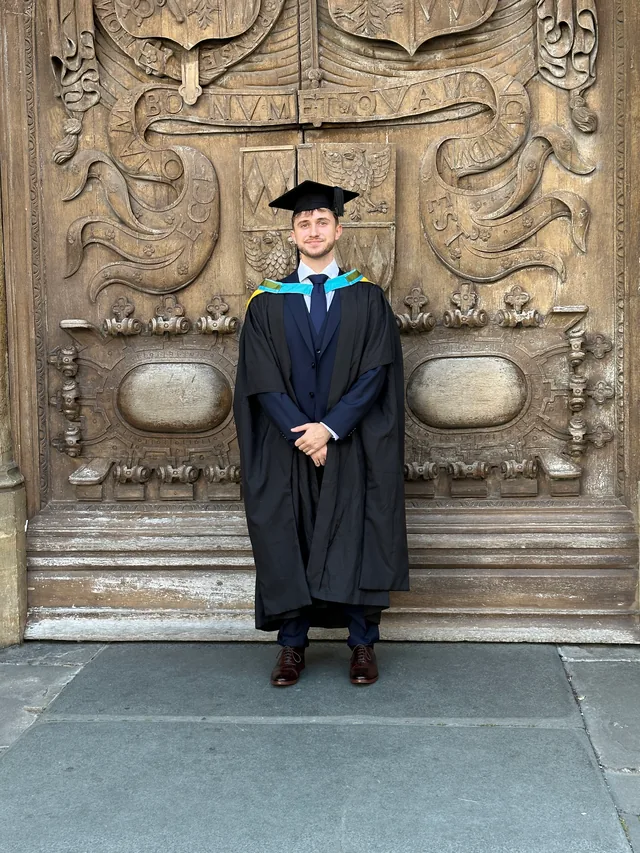
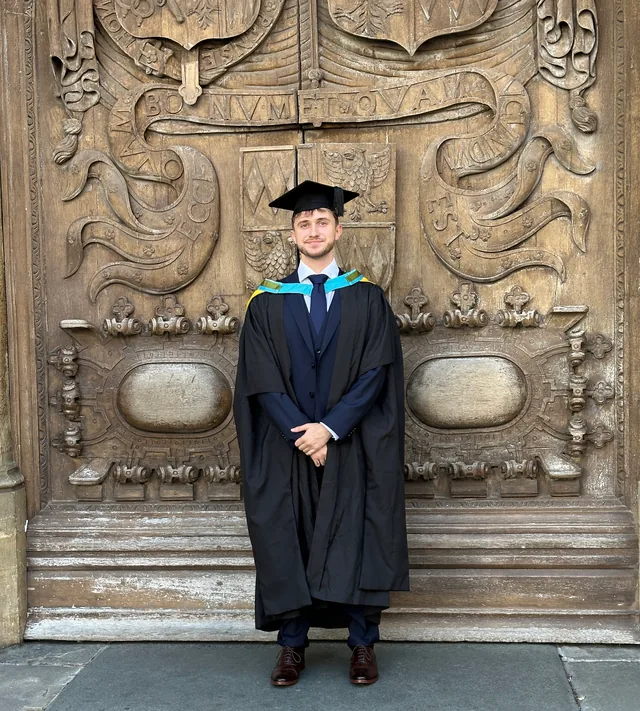
added goatcounter analytics and recropped graduation photo

diff --git a/src/partials/head.html b/src/partials/head.html
@@ -2,11 +2,10 @@
 <meta name="viewport" content="width=device-width, initial-scale=1.0">
 <!--
   Content Security Policy. GitHub Pages cannot send headers, so it is set here.
-  Everything (including the self-hosted font) is same-origin except the contact form's POST to Web3Forms.
-  To enable analytics (src/partials/analytics.html) also allow its script and endpoint:
-    script-src 'self' https://gc.zgo.at;  connect-src https://api.web3forms.com https://CODE.goatcounter.com
+  Everything (including the self-hosted font and analytics script) is same-origin except two
+  endpoints: the contact form's POST to Web3Forms and the GoatCounter page-view beacon.
 -->
-<meta http-equiv="Content-Security-Policy" content="default-src 'none'; img-src 'self'; style-src 'self'; font-src 'self'; script-src 'self'; connect-src https://api.web3forms.com; form-action https://api.web3forms.com; base-uri 'self'">
+<meta http-equiv="Content-Security-Policy" content="default-src 'none'; img-src 'self'; style-src 'self'; font-src 'self'; script-src 'self'; connect-src https://api.web3forms.com https://neocass.goatcounter.com; form-action https://api.web3forms.com; base-uri 'self'">
 <title>{{ title }}</title>
 <meta name="description" content="{{ description }}">
 <meta name="author" content="Neo Cass">

diff --git a/src/pages/index.html b/src/pages/index.html
@@ -91,8 +91,8 @@ canonical: https://neocass.com/
              sizes="(max-width: 480px) 45vw, 150px"
              alt="Neo in a hard hat on a green platform beside blue accelerator magnets in an underground tunnel">
       </a>
-      <a href="/assets/images/gallery/graduation.webp" data-pswp-width="1200" data-pswp-height="1600" target="_blank" rel="noopener">
-        <img src="/assets/images/gallery/thumbs/graduation.webp" width="640" height="853" loading="lazy" decoding="async"
+      <a href="/assets/images/gallery/graduation.webp" data-pswp-width="1200" data-pswp-height="1333" target="_blank" rel="noopener">
+        <img src="/assets/images/gallery/thumbs/graduation.webp" width="640" height="711" loading="lazy" decoding="async"
              srcset="/assets/images/gallery/thumbs/graduation.webp 640w, /assets/images/gallery/graduation.webp 1200w"
              sizes="(max-width: 480px) 45vw, 150px"
              alt="Neo in a graduation gown and cap standing in front of a carved wooden door">

diff --git a/src/partials/analytics.html b/src/partials/analytics.html
@@ -1,6 +1,7 @@
 <!--
   Privacy-friendly analytics (GoatCounter: no cookies, no personal data, no consent banner).
-  Disabled until you have a site code: sign up free at https://www.goatcounter.com, choose a
-  code, replace CODE, remove the comment markers, and update the CSP in head.html as described there.
-<script data-goatcounter="https://CODE.goatcounter.com/count" async src="//gc.zgo.at/count.js"></script>
+  Dashboard: https://neocass.goatcounter.com. The script is vendored (see its README) and posts
+  one beacon to the endpoint below, which the CSP in head.html allows via connect-src.
+  To stop counting your own visits, open https://neocass.com/#toggle-goatcounter once per browser.
 -->
+<script async data-goatcounter="https://neocass.goatcounter.com/count" src="/assets/vendor/goatcounter/count.v4.js"></script>

diff --git a/public/assets/js/contact.js b/public/assets/js/contact.js
@@ -1,7 +1,7 @@
 /*
   Contact form behaviour (Web3Forms). Plain ES5-style JS, no dependencies.
 
-  - Live site, no valid access key set -> the form, nav pill and footer link stay hidden.
+  - Live site, no valid access key set -> the form and the [Contact] link stay hidden.
   - Valid access key set               -> they appear and the form submits over fetch().
   - localhost preview, no valid key    -> they appear with a notice, and sending is disabled,
                                           so the layout can be previewed before going live.

diff --git a/src/pages/404.html b/src/pages/404.html
@@ -8,6 +8,7 @@ base: /
 <head>
 {% include "head.html" %}
 <meta name="robots" content="noindex">
+{% include "analytics.html" %}
 </head>
 <body>
 

diff --git a/scripts/check_site.py b/scripts/check_site.py
@@ -3,7 +3,7 @@
 
     python3 scripts/build.py && python3 scripts/check_site.py
 
-Checks dist/ (the output of build.py), i.e. exactly what gets deployed. Exits non-zero if anything fails, so it also runs in CI (.github/workflows/check.yml).
+Checks dist/ (the output of build.py), i.e. exactly what gets deployed. Exits non-zero if anything fails, so it also runs in CI (.github/workflows/site.yml).
 
 What it guards
   templates   no unrendered {{ }} / {% %} tokens left in any page
@@ -13,6 +13,7 @@ What it guards
               target=_blank links carry rel=noopener
   privacy     no email addresses or phone numbers anywhere in published files
   contact     every [data-contact] element ships hidden (form is never shown half-configured)
+  analytics   the GoatCounter endpoint is allowed by the CSP's connect-src (else nothing is counted)
   seo         title, description, canonical, Open Graph image, valid JSON-LD, robots + sitemap
   weight      per-file size budgets
 """
@@ -70,6 +71,7 @@ class Page(HTMLParser):
         self.inline_scripts = 0
         self.jsonld: list[str] = []
         self.data_contact: list[dict] = []
+        self.beacons: list[str] = []            # data-goatcounter endpoints
         self.title = ""
         self._in_title = False
         self._script: str | None = None
@@ -92,6 +94,8 @@ class Page(HTMLParser):
         if tag == "title":
             self._in_title = True
         if tag == "script":
+            if "data-goatcounter" in a:
+                self.beacons.append(a["data-goatcounter"])
             if "src" in a:
                 self.refs.append(("src", a["src"]))
             elif a.get("type") == "application/ld+json":
@@ -160,6 +164,13 @@ for name, p in parsed.items():
         fail(name, f"{p.inline_scripts} inline <script> (blocked by CSP)")
     if p.handlers:
         fail(name, f"{p.handlers} inline event handler(s) (blocked by CSP)")
+
+    connect = re.search(r"connect-src([^;]*)", csp)
+    allowed = connect.group(1).split() if connect else []
+    for endpoint in p.beacons:
+        origin = re.match(r"https://[^/]+", endpoint)
+        if not origin or origin.group(0) not in allowed:
+            fail(name, f"analytics endpoint {endpoint} is not https or not in the CSP connect-src")
 
     for img in p.imgs:
         src = img.get("src", "?")

diff --git a/scripts/build_images.py b/scripts/build_images.py
@@ -44,7 +44,7 @@ ICONS = PUBLIC / "assets" / "icons"
 # minimal: only dead space (ceiling, a stranger's shoes) is trimmed.
 GALLERY = {
     "cern-tunnel": ("IMG_1860.HEIC", (0, 0, 3024, 4032)),
-    "graduation": ("IMG_5073.HEIC", (0, 0, 3024, 4032)),
+    "graduation": ("IMG_5073.HEIC", (0, 0, 3024, 3360)),  # floor trimmed below the shoes
     "thesis-talk": ("IMG_1909.HEIC", (480, 700, 2500, 3300)),  # screen + speaker + lectern
     "poster-day": ("IMG_2651.jpeg", (0, 0, 2733, 2540)),
 }

diff --git a/README.md b/README.md
@@ -103,11 +103,14 @@ shadows or gradients. Entries are rows with the year on the left; profile links 
 `[brackets]`. Light and dark themes follow the visitor's system setting. The header of
 `public/assets/css/style.css` has the short version.
 
-## Analytics (optional)
+## Analytics
 
-A disabled GoatCounter snippet (no cookies, no personal data) is in
-`src/partials/analytics.html`. To enable it, follow the comments there and in `head.html`,
-including the matching change to the Content Security Policy.
+GoatCounter (no cookies, no personal data, no consent banner), dashboard at
+https://neocass.goatcounter.com. The snippet is `src/partials/analytics.html`, included on the
+home page and the 404 page (so broken incoming links show up as 404 paths). The script itself
+is vendored in `public/assets/vendor/goatcounter/` so the CSP keeps `script-src 'self'`; only
+the count endpoint is allowed in `connect-src`. Visits from localhost are never counted. To
+exclude your own visits, open https://neocass.com/#toggle-goatcounter once in each browser.
 
 ## Notes
 
